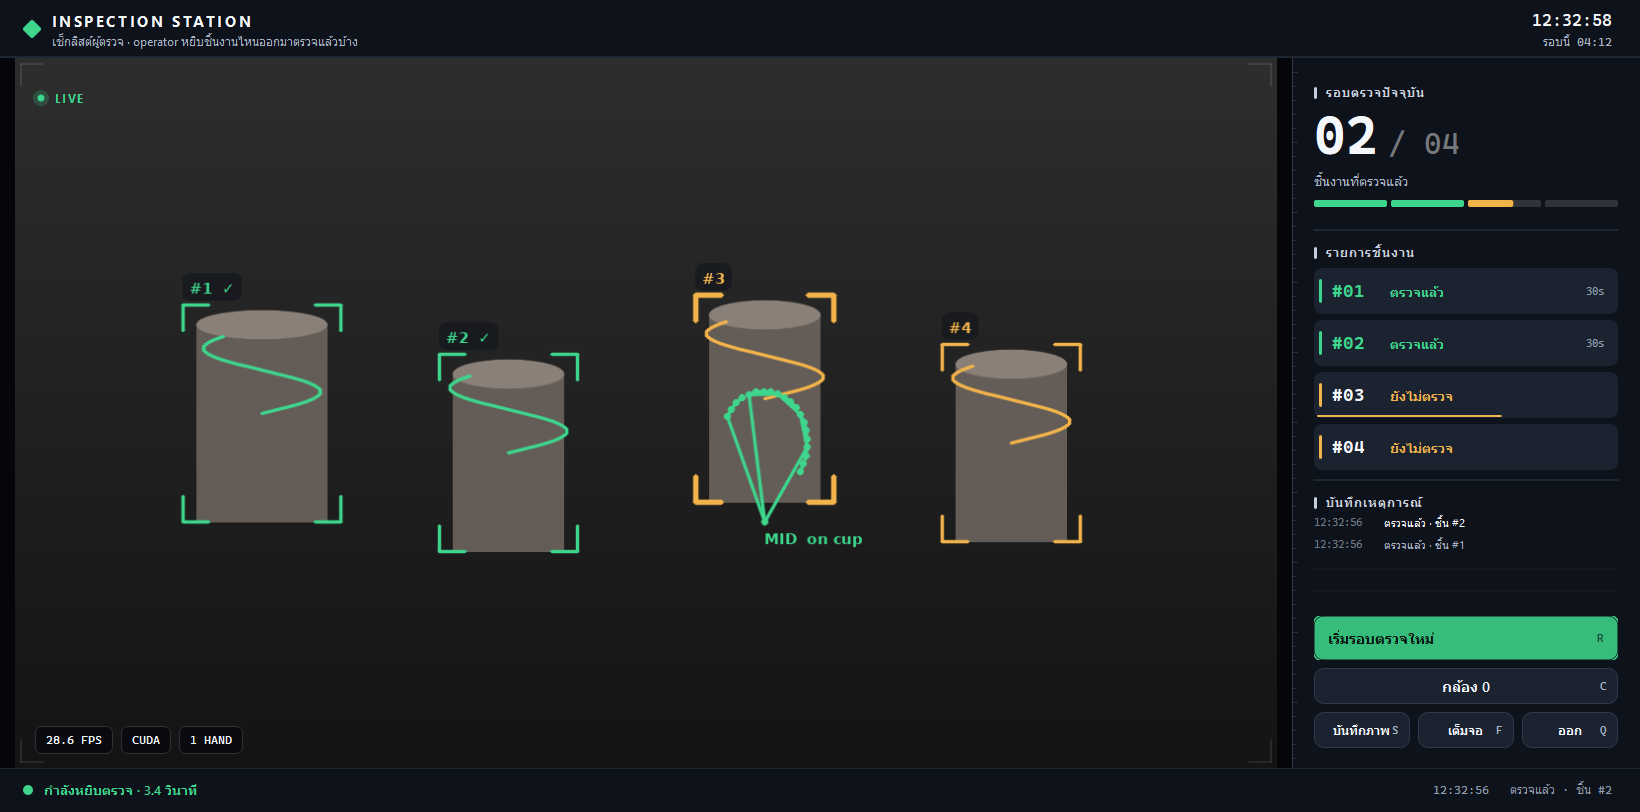
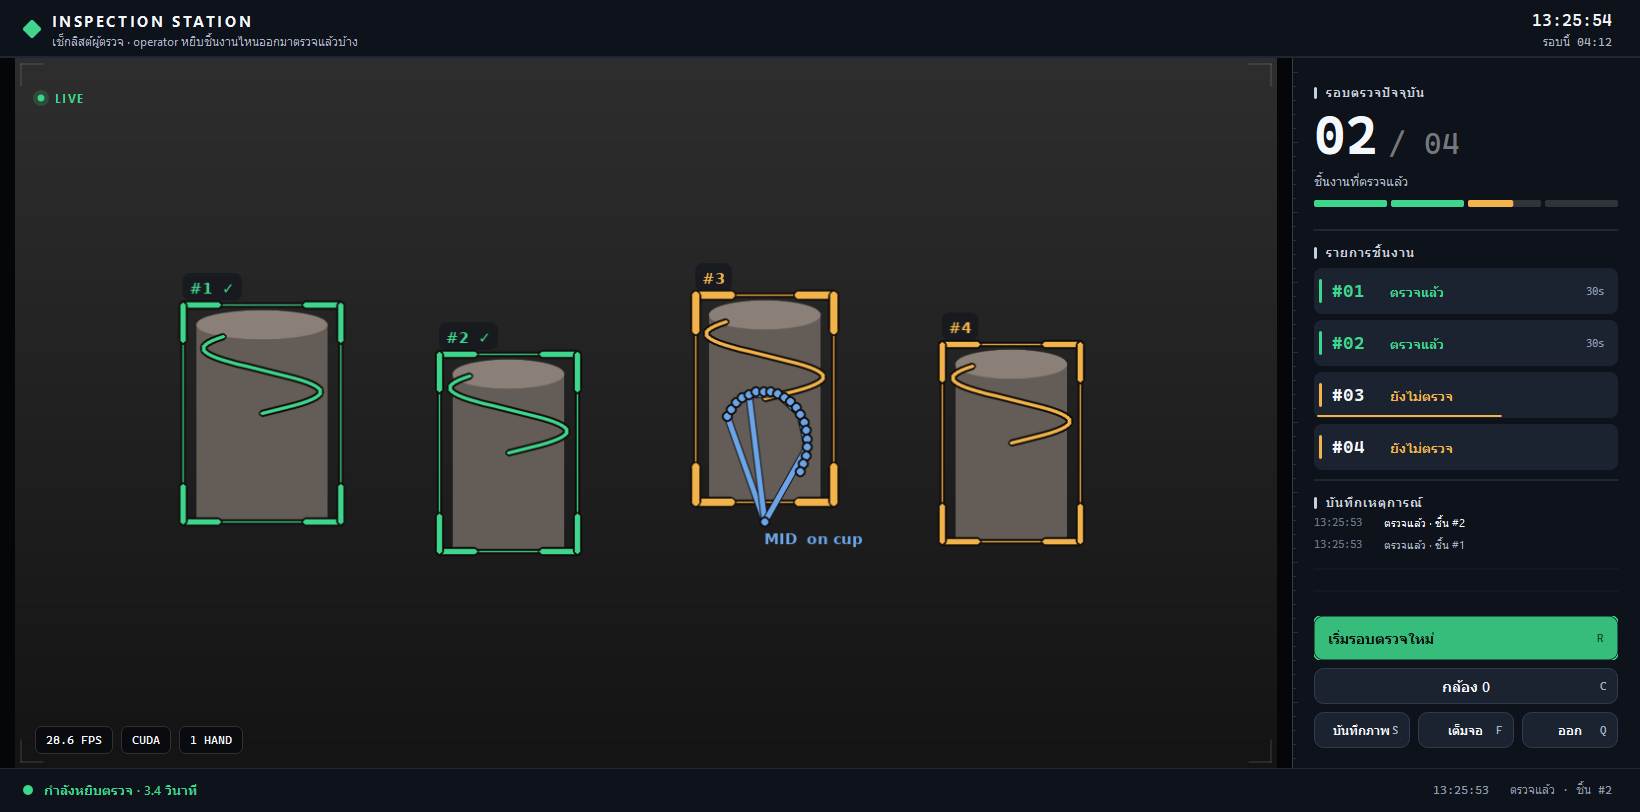
overlay: make the cup bbox pop, split skeleton onto a blue color axis
bbox: thicker corner brackets (px4 / px6 when held) + a thin full-box outline + a
dark HALO stroke under every line via _line(), so boxes read on the bright table.
skeleton: moved off green/amber (now reserved for the inspection bbox) onto an
all-blue ramp that brightens as the hand closes - OPEN #92A8C0 / MID #6BA5E8 /
FIST #3B82F6. hand state still comes from hand_state(); on_cup no longer recolors
the hand green, it just thickens the lines.

diff --git a/app/overlay.py b/app/overlay.py
@@ -15,13 +15,21 @@ from PIL import Image, ImageDraw, ImageFont
 
 # ทุกข้อความบนจอเป็นภาษาอังกฤษ — DejaVu ไม่มี glyph ไทย (ไทยไปที่วิดเจ็ต Qt)
 # สีชุดเดียวกับ UI ใน app.py — ภาพกับแผงข้างต้องดูเป็นเครื่องเดียวกัน (BGR)
-INK   = (27, 20, 16)      # พื้นแผงโปร่งแสง       #10141B
-FG    = (243, 236, 231)   # อักษรหลัก             #E7ECF3
-MUTED = (150, 132, 122)   # อักษรรอง              #7A8496
-OK    = (140, 214, 61)    # มือจับแก้ว / ตรวจแล้ว  #3DD68C
-WARN  = (75, 179, 242)    # ยังไม่ตรวจ (อำพัน)     #F2B34B
+INK   = (27, 20, 16)      # พื้นแผงโปร่งแสง        #10141B
+FG    = (243, 236, 231)   # อักษรหลัก              #E7ECF3
+MUTED = (150, 132, 122)   # อักษรรอง               #7A8496
+HALO  = (10, 12, 16)      # ขอบดำใต้ทุกเส้น — ทำให้ bbox/โครงมือตัดกับพื้นสว่างของโต๊ะ
+
+# --- สองสีสัญญาณของ "การตรวจ" อยู่บน bbox ของแก้วเท่านั้น (ล็อก — ตรงกับ app.py) ---
+OK    = (140, 214, 61)    # ตรวจแล้ว               #3DD68C   = app.SIGNAL
+WARN  = (75, 179, 242)    # ยังไม่ตรวจ             #F2B34B   = app.AMBER
 DONE, TODO = OK, WARN
-STATE_COLOR = {"FIST": OK, "OPEN": (200, 190, 175), "MID": WARN}   # สีโครงมือตามท่า (พาร์ท 2)
+
+# --- โครงมือเป็นคนละแกนสี (น้ำเงิน = เย็น) จะได้ไม่ปนกับ bbox · สว่างขึ้นเมื่อมือกำเข้า ---
+HAND_OPEN = (192, 168, 146)   # แบ    #92A8C0  น้ำเงินหม่น เกือบเทา
+HAND_MID  = (232, 165, 107)   # กลาง  #6BA5E8
+HAND_FIST = (246, 130, 59)    # กำ    #3B82F6  น้ำเงินสด
+STATE_COLOR = {"FIST": HAND_FIST, "OPEN": HAND_OPEN, "MID": HAND_MID}   # สีโครงมือตามท่า (พาร์ท 2)
 
 HAND_EDGES = [(0, 1), (1, 2), (2, 3), (3, 4), (0, 5), (5, 6), (6, 7), (7, 8),
               (5, 9), (9, 10), (10, 11), (11, 12), (9, 13), (13, 14), (14, 15),
@@ -50,6 +58,12 @@ def font(px, bold=False):
         hit = hit or ImageFont.load_default(px)
         _FONTS[(px, bold)] = hit
     return hit
+
+
+def _line(frame, p1, p2, col, w, halo):
+    """เส้นสี + ขอบดำใต้เส้น — เส้น bbox / โครงมือ อ่านออกทั้งบนพื้นมืดและพื้นสว่าง"""
+    cv2.line(frame, p1, p2, HALO, w + halo, cv2.LINE_AA)
+    cv2.line(frame, p1, p2, col, w, cv2.LINE_AA)
 
 
 def _round_rect(img, x1, y1, x2, y2, r, color):
@@ -111,21 +125,29 @@ def draw(frame, cups, hands, held_ids, insp, debug):
         col = DONE if done else TODO
         trail = insp.trails.get(tid)
         if trail and len(trail) > 1:
-            cv2.polylines(frame, [np.array(trail, np.int32)], False, col, px(2), cv2.LINE_AA)
+            path = [np.array(trail, np.int32)]
+            cv2.polylines(frame, path, False, HALO, px(5), cv2.LINE_AA)
+            cv2.polylines(frame, path, False, col, px(2), cv2.LINE_AA)
         x1, y1, x2, y2 = map(int, box)
-        L, t = px(26), px(4 if tid in held_ids else 2)
+        held = tid in held_ids
+        t, halo = px(6 if held else 4), px(3)
+        L = max(px(14), min(px(36), (x2 - x1) // 3, (y2 - y1) // 3))   # วงเล็บมุมสั้นลงตามกล่องเล็ก ไม่ให้ชนกลาง
+        cv2.rectangle(frame, (x1, y1), (x2, y2), HALO, px(3), cv2.LINE_AA)
+        cv2.rectangle(frame, (x1, y1), (x2, y2), col, px(1), cv2.LINE_AA)   # เส้นเต็มบาง ๆ ให้เห็นทั้งกล่อง
         for cx, sx in ((x1, 1), (x2, -1)):
-            for cy, sy in ((y1, 1), (y2, -1)):
-                cv2.line(frame, (cx, cy), (cx + sx * L, cy), col, t, cv2.LINE_AA)
-                cv2.line(frame, (cx, cy), (cx, cy + sy * L), col, t, cv2.LINE_AA)
+            for cy, sy in ((y1, 1), (y2, -1)):                              # วงเล็บมุมหนา — ตัวเน้น
+                _line(frame, (cx, cy), (cx + sx * L, cy), col, t, halo)
+                _line(frame, (cx, cy), (cx, cy + sy * L), col, t, halo)
         _chip(frame, T, x1, y1 - px(32), f"#{tid}" + ("  ✓" if done else ""), col, u)
 
     # ── โครงมือ: สีตามท่า (พาร์ท 2) · เขียวเมื่อจับแก้ว ──
     for pts, on_cup, state, pts_in in hands:
-        col = OK if on_cup else STATE_COLOR[state]
+        col = STATE_COLOR[state]                    # สีตามท่า (กำ/แบ/กลาง) — ไม่เปลี่ยนเป็นสี bbox ตอนจับแก้ว
+        w = px(4 if on_cup else 3)                  # จับแก้วอยู่ = เส้นหนาขึ้น (นอกจากป้าย on cup)
         for a, b in HAND_EDGES:
-            cv2.line(frame, pts[a], pts[b], col, px(2), cv2.LINE_AA)
+            _line(frame, pts[a], pts[b], col, w, px(2))
         for x, y in pts:
+            cv2.circle(frame, (x, y), px(3) + px(2), HALO, -1, cv2.LINE_AA)
             cv2.circle(frame, (x, y), px(3), col, -1, cv2.LINE_AA)
         msg = state + ("  on cup" if on_cup else "") + (f"   pts:{pts_in}" if debug else "")
         _put(T, pts[0][0], pts[0][1] + px(18), msg, font(15 * u, True), col, "lm")

diff --git a/docs/04-desktop-app.md b/docs/04-desktop-app.md
@@ -211,7 +211,9 @@ class Inspection:
   บอกว่าชิ้นนี้ถูกยกออกไปทางไหน กลับมาวางตรงไหน
 - **`forget_seconds`** — id ที่ tracker แจกแล้วทิ้ง (แก้วโผล่แวบเดียว) ต้องหลุดจากเช็กลิสต์
   ไม่งั้นรายการจะยาวขึ้นเรื่อย ๆ จนอ่านไม่ได้ · **ที่ตรวจแล้วไม่ถูกลืม**
-- **กรอบเหลือง = ยังไม่ตรวจ · กรอบเขียว + ✓ หลัง id = ตรวจแล้ว** (กรอบหนาขึ้นตอนมือจับอยู่)
+- **กรอบเหลือง = ยังไม่ตรวจ · กรอบเขียว + ✓ หลัง id = ตรวจแล้ว** · กรอบเป็นวงเล็บมุมหนา +
+  เส้นเต็มบาง ๆ + **ขอบดำใต้เส้น** (`_line()` / `HALO`) ให้ตัดกับพื้นสว่างของโต๊ะ อ่านออกจากท้ายห้อง ·
+  หนาขึ้นอีกตอนมือจับอยู่
 
 ### 6. จุด reset — เริ่มรอบตรวจใหม่
 ปุ่ม **เริ่มรอบใหม่** บน GUI หรือกด `R` — งานจริงเปลี่ยนล็อตทุกกี่นาที ต้องมีจุดเริ่มใหม่
@@ -236,8 +238,10 @@ def reset(self):        # GUI เรียก — แค่ยกธง
 คีย์ลัดพิมพ์กำกับอยู่บนปุ่มเองด้วยฟอนต์ mono — ไม่ต้องจำ · ข้อความยืนยันขึ้นที่แถบสถานะ
 ล่างซ้าย 2.5 วินาที และเหตุการณ์สำคัญ (ติ๊กชิ้นไหน / เริ่มรอบใหม่) ลงบันทึกที่แผงข้างค้างไว้
 
-โครงมือเปลี่ยนสีตามท่า: เขียว = FIST, เทา = OPEN, ส้ม = MID · ป้าย `on cup`
-ขึ้นเมื่อ `hand_on_cup` เป็นจริง
+โครงมืออยู่คนละแกนสีกับ bbox — เป็นโทน**น้ำเงิน (เย็น)** ทั้งหมด จะได้ไม่ปนกับกรอบเขียว/อำพัน
+สว่างขึ้นเมื่อมือกำเข้า: `#92A8C0` หม่น = OPEN · `#6BA5E8` = MID · `#3B82F6` สด = FIST
+(ท่ายังมาจาก `hand_state()` เหมือนเดิม เปลี่ยนแค่จานสี) · จับแก้วอยู่ = เส้นโครงมือหนาขึ้น +
+ป้าย `on cup` (ไม่เปลี่ยนเป็นสีเขียวแล้ว — สีเขียว/อำพันสงวนให้ bbox อย่างเดียว)
 
 ## กติกาถือแก้ว
 แกนเดียวกับโน้ตบุ๊ก — มืออยู่บนแก้ว ห่อด้วย `HoldState`
